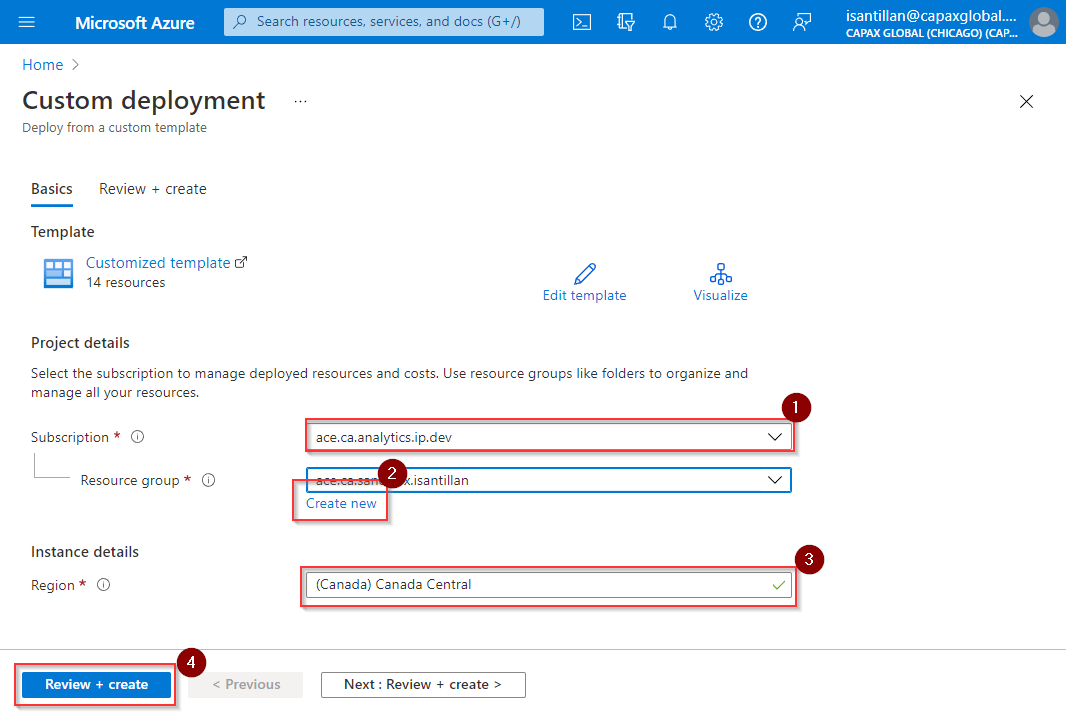
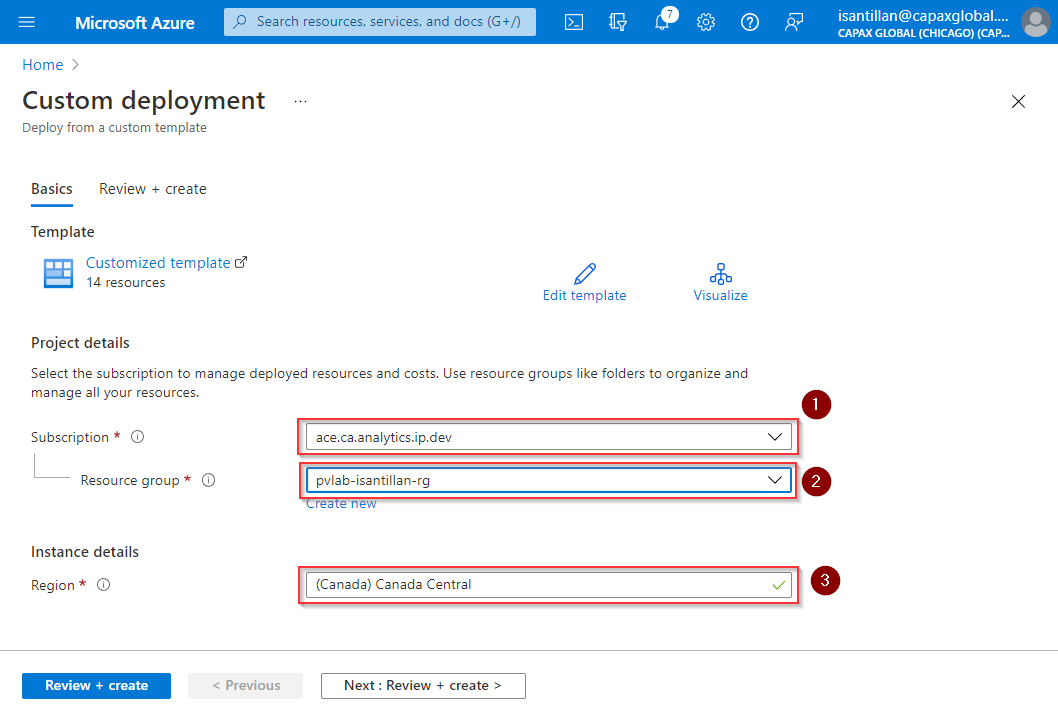
update module00/00.01-deploy-lab.png and module00.md, step 2

diff --git a/modules/module00.md b/modules/module00.md
@@ -26,7 +26,7 @@ In order to follow along with the Azure Purview lab exercises, we need to provis
 
     [![Deploy to Azure](https://aka.ms/deploytoazurebutton)](https://portal.azure.com/#create/Microsoft.Template/uri/https%3A%2F%2Fraw.githubusercontent.com%2Ftayganr%2Fpurviewlab%2Fmain%2Ftemplate%2Fazuredeploy.json)
 
-2. Beneath the **Resource group** field, click **Create new** and provide a unique name (e.g. `purviewlab-rg`), select a [valid location](https://azure.microsoft.com/en-us/global-infrastructure/services/?products=purview&regions=all) (e.g. `West Europe`), and then click **Review + create**.
+2. Beneath the **Resource group** field, click select the resource group that's been created for you (e.g. `pvlab-{username}-rg`), select a [valid location](https://azure.microsoft.com/en-us/global-infrastructure/services/?products=purview&regions=all) (e.g. `Canada Central`), and then click **Review + create**.
 
     ![Deploy Template](https://raw.githubusercontent.com/isantillan1/purviewlab/isantillan1-working-branch/images/module00/00.01-deploy-lab.png)
 
